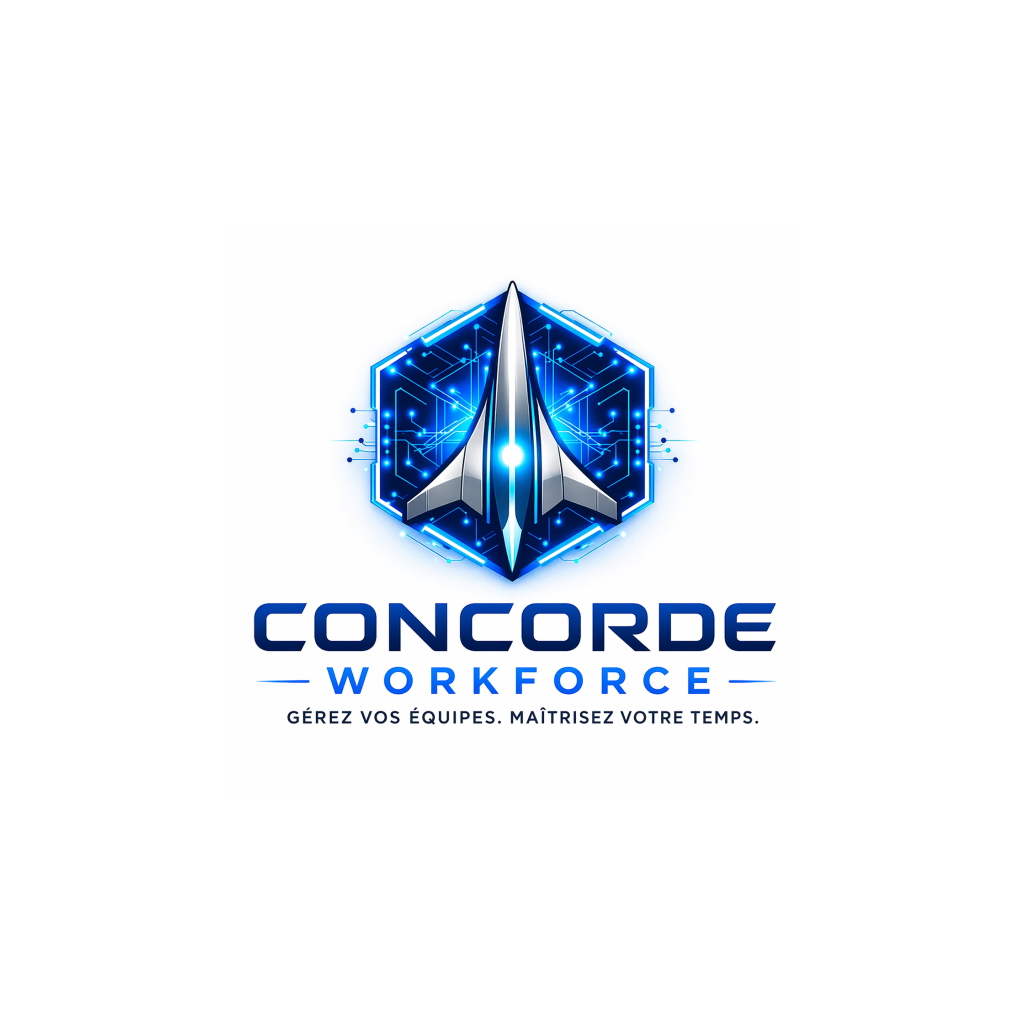
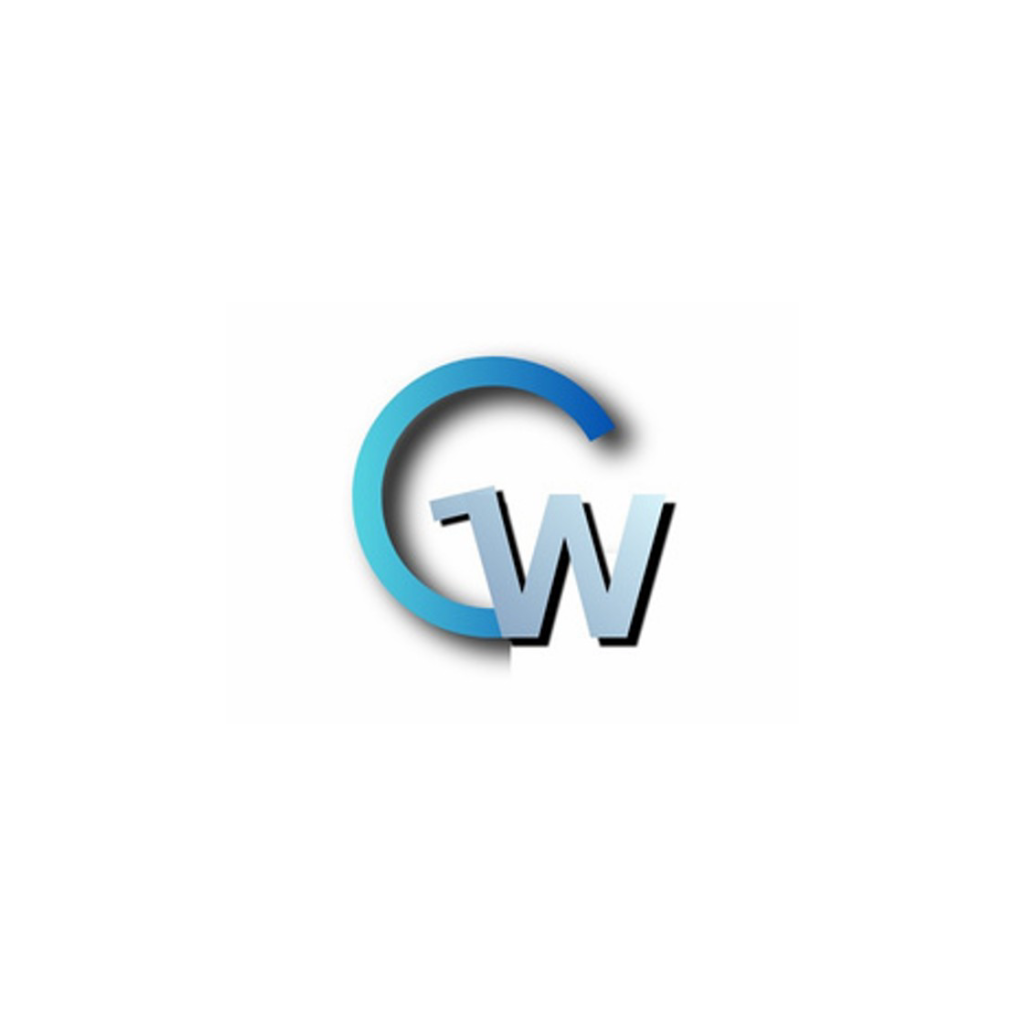
Refactor code structure for improved readability and maintainability

Changed region(s): [[0.25, 0.2812, 0.75, 0.7188]]

diff --git a/abrpoint.client/src/components/Home/HomePage.css b/abrpoint.client/src/components/Home/HomePage.css
@@ -486,6 +486,71 @@
 .home-page .step-store {
   background: var(--hp-surface-container-low); border: 1px solid var(--hp-surface-container-high);
   border-radius: 12px; padding: 11px 22px; font-size: 13px; font-weight: 600; color: var(--hp-on-surface);
+  text-decoration: none; transition: transform .15s ease, border-color .15s ease;
+}
+.home-page .step-store:hover { transform: translateY(-1px); border-color: var(--hp-primary-fixed-dim); }
+.home-page .step-store-url {
+  margin-top: 14px; font-size: 12.5px; color: var(--hp-on-surface-variant);
+}
+.home-page .step-store-url a { color: var(--hp-primary); text-decoration: none; }
+.home-page .step-store-url a:hover { text-decoration: underline; }
+
+/* ── DOWNLOAD BAND ── bandeau dédié pour le téléchargement mobile. */
+.home-page .download-band {
+  margin: 0 -48px;
+  padding: 56px 48px;
+  background: linear-gradient(135deg, #f3f7ff 0%, #ffffff 60%, #eef3fb 100%);
+  border-top: 1px solid var(--hp-surface-container);
+  border-bottom: 1px solid var(--hp-surface-container);
+}
+.home-page .download-band-inner {
+  max-width: 1200px; margin: 0 auto;
+  display: grid; grid-template-columns: 1fr 1.1fr; gap: 40px; align-items: center;
+}
+.home-page .download-band-left { display: flex; flex-direction: column; gap: 10px; }
+.home-page .download-band-tag {
+  display: inline-flex; align-self: flex-start; align-items: center; gap: 6px;
+  background: var(--hp-primary-fixed); color: var(--hp-primary);
+  font-size: 12.5px; font-weight: 700; letter-spacing: 0.04em;
+  padding: 6px 14px; border-radius: 999px; text-transform: uppercase;
+}
+.home-page .download-band-title {
+  font-family: var(--hp-font-headline);
+  font-size: clamp(24px, 3vw, 34px); font-weight: 800;
+  color: var(--hp-on-surface); letter-spacing: -0.02em; margin: 4px 0 0;
+}
+.home-page .download-band-sub {
+  font-size: 15px; color: var(--hp-on-surface-variant); margin: 0; line-height: 1.55;
+}
+.home-page .download-band-url {
+  color: var(--hp-primary); font-weight: 700; text-decoration: none;
+  border-bottom: 1.5px dashed rgba(0,64,161,0.35);
+}
+.home-page .download-band-url:hover { border-bottom-style: solid; }
+
+.home-page .download-band-buttons {
+  display: flex; flex-wrap: wrap; gap: 12px; justify-content: flex-end;
+}
+.home-page .store-btn {
+  display: inline-flex; align-items: center; gap: 12px;
+  background: #111418; color: #ffffff;
+  border-radius: 14px; padding: 12px 22px;
+  text-decoration: none;
+  transition: transform .18s ease, box-shadow .18s ease;
+  box-shadow: 0 6px 18px rgba(15,23,42,0.15);
+  min-width: 200px;
+}
+.home-page .store-btn:hover { transform: translateY(-2px); box-shadow: 0 10px 24px rgba(15,23,42,0.22); }
+.home-page .store-btn-icon { font-size: 22px; line-height: 1; }
+.home-page .store-btn-text { display: flex; flex-direction: column; line-height: 1.15; }
+.home-page .store-btn-small { font-size: 10.5px; letter-spacing: 0.08em; text-transform: uppercase; opacity: 0.75; }
+.home-page .store-btn-large { font-size: 16px; font-weight: 700; }
+.home-page .store-btn-apk { background: linear-gradient(135deg, var(--hp-primary), var(--hp-primary-container)); }
+
+@media (max-width: 860px) {
+  .home-page .download-band { margin: 0 -20px; padding: 40px 20px; }
+  .home-page .download-band-inner { grid-template-columns: 1fr; gap: 24px; }
+  .home-page .download-band-buttons { justify-content: flex-start; }
 }
 .home-page .mini-profile {
   background: var(--hp-surface-container-low); border: 1px solid var(--hp-surface-container-high);

diff --git a/abrpoint.client/src/components/Home/HomePage.tsx b/abrpoint.client/src/components/Home/HomePage.tsx
@@ -113,6 +113,7 @@ export default function HomePage() {
           <li><a href="#how">Comment ça marche</a></li>
           <li><a href="#secteurs">Secteurs</a></li>
           <li><a href="#pricing">Tarifs</a></li>
+          <li><a href="#download">Téléchargement</a></li>
           <li><a href="#temoignages">Témoignages</a></li>
         </ul>
         <div className="nav-right">
@@ -265,6 +266,47 @@ export default function HomePage() {
         </div>
       </div>
 
+      {/* MOBILE DOWNLOAD — bandeau dédié pour rendre le lien de téléchargement
+          mobile (URL canonique : concordeworkly.com) immédiatement repérable
+          en haut de page, sans avoir à scroller jusqu'à l'étape « Déployez sur
+          le terrain ». */}
+      <section id="download" className="download-band reveal">
+        <div className="download-band-inner">
+          <div className="download-band-left">
+            <div className="download-band-tag">📱 Application mobile</div>
+            <h3 className="download-band-title">Téléchargez l'app Concorde Workly</h3>
+            <p className="download-band-sub">
+              iOS · Android · Mode offline · Géolocalisation optionnelle. Rendez-vous sur{' '}
+              <a className="download-band-url" href="https://concordeworkly.com" target="_blank" rel="noreferrer">concordeworkly.com</a>
+              {' '}pour récupérer la dernière version.
+            </p>
+          </div>
+          <div className="download-band-buttons">
+            <a className="store-btn" href="https://concordeworkly.com/ios" target="_blank" rel="noreferrer">
+              <span className="store-btn-icon"></span>
+              <span className="store-btn-text">
+                <span className="store-btn-small">Télécharger sur</span>
+                <span className="store-btn-large">App Store</span>
+              </span>
+            </a>
+            <a className="store-btn" href="https://concordeworkly.com/android" target="_blank" rel="noreferrer">
+              <span className="store-btn-icon">▶</span>
+              <span className="store-btn-text">
+                <span className="store-btn-small">DISPONIBLE SUR</span>
+                <span className="store-btn-large">Google Play</span>
+              </span>
+            </a>
+            <a className="store-btn store-btn-apk" href="https://concordeworkly.com" target="_blank" rel="noreferrer">
+              <span className="store-btn-icon">⬇</span>
+              <span className="store-btn-text">
+                <span className="store-btn-small">APK direct</span>
+                <span className="store-btn-large">concordeworkly.com</span>
+              </span>
+            </a>
+          </div>
+        </div>
+      </section>
+
       {/* FEATURES */}
       <section id="features">
         <div className="section-tag">Fonctionnalités</div>
@@ -395,8 +437,11 @@ export default function HomePage() {
                 <div className="step-illus-title">Mobile-first</div>
                 <div className="step-illus-desc">iOS · Android · Mode offline · Géolocalisation optionnelle · Pointeuses biométriques compatibles</div>
                 <div className="step-stores">
-                  <div className="step-store">↓ App Store</div>
-                  <div className="step-store">↓ Google Play</div>
+                  <a className="step-store" href="https://concordeworkly.com/ios" target="_blank" rel="noreferrer">↓ App Store</a>
+                  <a className="step-store" href="https://concordeworkly.com/android" target="_blank" rel="noreferrer">↓ Google Play</a>
+                </div>
+                <div className="step-store-url">
+                  ou téléchargez l'APK depuis <a href="https://concordeworkly.com" target="_blank" rel="noreferrer"><strong>concordeworkly.com</strong></a>
                 </div>
               </div>
             )}
@@ -733,6 +778,8 @@ export default function HomePage() {
               <a href="#features">Fonctionnalités</a>
               <a href="#pricing">Tarifs</a>
               <a href="#how">Démo</a>
+              <a href="#download">Application mobile</a>
+              <a href="https://concordeworkly.com" target="_blank" rel="noreferrer">concordeworkly.com</a>
               <a href="#temoignages">Cas clients</a>
             </div>
           </div>

diff --git a/abrpoint.mobile/scripts/generate-padded-icon.js b/abrpoint.mobile/scripts/generate-padded-icon.js
@@ -1,35 +1,50 @@
 /**
- * Génère une version paddée de Concorde.png pour l'icône Android adaptive.
+ * Génère les variantes de l'icône Android adaptive à partir de la nouvelle
+ * identité visuelle Concorde Workly (assets/concorde-workly-logo.jpg).
  *
- * Pourquoi: Android applique un zoom de ~150% sur le foreground (zone safe ~66%).
+ * Pourquoi : Android applique un zoom de ~150% sur le foreground (zone safe ~66%).
  * Un logo plein cadre apparaît alors énorme et est rogné. On ajoute ~20% de marge
- * transparente autour du logo pour qu'il s'affiche à une taille normale.
+ * transparente autour du logo pour qu'il s'affiche à une taille normale, nette
+ * et lisible en tant qu'icône.
+ *
+ * Sorties :
+ *   - assets/concorde-workly-logo.png  — version PNG nette du logo source (1024×1024)
+ *   - assets/icon-padded.png           — icône iOS/Android (paddée)
+ *   - assets/adaptive-foreground.png   — foreground adaptive Android (paddé)
  */
 const Jimp = require('jimp-compact');
 const path = require('path');
 
-const SRC = path.join(__dirname, '..', 'assets', 'Concorde.png');
+const SRC = path.join(__dirname, '..', 'assets', 'concorde-workly-logo.jpg');
+const OUT_LOGO_PNG = path.join(__dirname, '..', 'assets', 'concorde-workly-logo.png');
 const OUT_ICON = path.join(__dirname, '..', 'assets', 'icon-padded.png');
 const OUT_ADAPTIVE = path.join(__dirname, '..', 'assets', 'adaptive-foreground.png');
 
-// Marge en pourcentage de la taille de la canvas (chaque côté).
-// 22% de marge = logo occupe 56% au centre, ce qui est conforme à la safe zone Android.
+// 22% de marge = logo occupe 56% au centre, conforme à la safe zone Android.
 const PADDING_RATIO = 0.22;
 const CANVAS_SIZE = 1024;
 
 (async () => {
   const src = await Jimp.read(SRC);
 
-  const innerSize = Math.round(CANVAS_SIZE * (1 - PADDING_RATIO * 2));
-  src.contain(innerSize, innerSize);
+  // 1) Version PNG carrée et nette du logo source (utilisée par splash, lock,
+  //    BackgroundShield et notifications — partout où on veut le logo plein cadre).
+  const square = src.clone();
+  // contain garde le ratio, ajoute des bords transparents pour atteindre 1024×1024.
+  square.contain(CANVAS_SIZE, CANVAS_SIZE);
+  await square.writeAsync(OUT_LOGO_PNG);
 
+  // 2) Versions paddées pour l'icône applicative.
+  const innerSize = Math.round(CANVAS_SIZE * (1 - PADDING_RATIO * 2));
+  const inner = src.clone().contain(innerSize, innerSize);
   const canvas = new Jimp(CANVAS_SIZE, CANVAS_SIZE, 0x00000000);
   const offset = Math.round((CANVAS_SIZE - innerSize) / 2);
-  canvas.composite(src, offset, offset);
+  canvas.composite(inner, offset, offset);
 
   await canvas.writeAsync(OUT_ICON);
   await canvas.writeAsync(OUT_ADAPTIVE);
 
+  console.log('Generated:', OUT_LOGO_PNG);
   console.log('Generated:', OUT_ICON);
   console.log('Generated:', OUT_ADAPTIVE);
 })().catch((err) => {

diff --git a/abrpoint.mobile/src/screens/LeaveRequestScreen.tsx b/abrpoint.mobile/src/screens/LeaveRequestScreen.tsx
@@ -248,7 +248,23 @@ export default function LeaveRequestScreen({ navigation }: any) {
       }
       closeForm();
       loadRequests();
-    } catch (error) {
+    } catch (error: any) {
+      // Faux négatif vu en prod : le POST réussit (record persisté), mais une
+      // erreur dans la notif manager (DbContext concurrent côté serveur, ou un
+      // hook réseau côté client) faisait remonter ce catch. On revérifie via
+      // loadRequests() — si le record est apparu, c'est un succès. Plus de
+      // « Impossible d'ajouter… » alors que la demande est bien là.
+      const status = error?.response?.status;
+      const wasNetworkOrServerHiccup = !status || status >= 500;
+      try { await loadRequests(); } catch { /* best-effort */ }
+      if (wasNetworkOrServerHiccup) {
+        Alert.alert('⚠️ Action partielle',
+          editingConcod
+            ? 'La demande a peut-être été enregistrée. Vérifiez la liste — si elle apparaît, tout est bon.'
+            : 'La demande a peut-être été enregistrée. Vérifiez la liste — si elle apparaît, tout est bon.');
+        closeForm();
+        return;
+      }
       Alert.alert('Erreur', editingConcod ? 'Impossible de modifier la demande' : 'Impossible d\'envoyer la demande');
     }
   };

diff --git a/abrpoint.mobile/src/screens/DemandeAutorisationScreen.tsx b/abrpoint.mobile/src/screens/DemandeAutorisationScreen.tsx
@@ -229,7 +229,19 @@ export default function DemandeAutorisationScreen({ navigation }: any) {
       setShowForm(false);
       setEditDemande(null);
       loadDemandes();
-    } catch (e) {
+    } catch (e: any) {
+      // Même filet de sécurité que LeaveRequestScreen : on a vu des 500 remontés
+      // alors que le record était bien créé (notif manager qui échoue côté serveur).
+      const status = e?.response?.status;
+      const wasNetworkOrServerHiccup = !status || status >= 500;
+      try { await loadDemandes(); } catch { /* best-effort */ }
+      if (wasNetworkOrServerHiccup) {
+        Alert.alert('⚠️ Action partielle',
+          'La demande a peut-être été enregistrée. Vérifiez la liste — si elle apparaît, tout est bon.');
+        setShowForm(false);
+        setEditDemande(null);
+        return;
+      }
       Alert.alert('Erreur', "Impossible d'envoyer la demande");
     }
   };

diff --git a/abrpoint.mobile/src/components/BackgroundShield.tsx b/abrpoint.mobile/src/components/BackgroundShield.tsx
@@ -34,7 +34,7 @@ export default function BackgroundShield({ children }: { children: React.ReactNo
       {hidden && (
         <View style={styles.shield} pointerEvents="none">
           <Image
-            source={require('../../assets/Concorde.png')}
+            source={require('../../assets/concorde-workly-logo.png')}
             style={styles.logo}
             resizeMode="contain"
           />

diff --git a/abrpoint.mobile/src/components/LockScreen.tsx b/abrpoint.mobile/src/components/LockScreen.tsx
@@ -96,7 +96,7 @@ export default function LockScreen() {
         colors={[COLORS.primary, COLORS.primaryContainer ?? '#0056d2']}
         style={StyleSheet.absoluteFillObject}
       />
-      <Image source={require('../../assets/Concorde.png')} style={styles.logo} resizeMode="contain" />
+      <Image source={require('../../assets/concorde-workly-logo.png')} style={styles.logo} resizeMode="contain" />
       <Text style={styles.title}>Session verrouillée</Text>
       <Text style={styles.subtitle}>
         {user?.utilib ? `${user.utilib} — ` : ''}Inactivité détectée

diff --git a/ABRPOINT.Server/Controllers/DemandeAutorisationsController.cs b/ABRPOINT.Server/Controllers/DemandeAutorisationsController.cs
@@ -156,6 +156,7 @@ namespace ABRPOINT.Server.Controllers
         {
             if (demande == null)
                 return BadRequest("Veuillez saisir les champs obligatoires");
+            object? result;
             try
             {
                 var caller = User.FindFirst(ClaimTypes.NameIdentifier)?.Value;
@@ -169,11 +170,20 @@ namespace ABRPOINT.Server.Controllers
                     return Forbid();
                 }
 
-                var result = await _repository.AddAsync(demande);
+                result = await _repository.AddAsync(demande);
+            }
+            catch (Exception)
+            {
+                return StatusCode(500);
+            }
+
+            // Best-effort : un échec de notification (DbContext concurrent, employé
+            // introuvable, push provider down…) NE DOIT PAS faire retomber le client
+            // sur "Impossible d'envoyer la demande" alors qu'elle est bien créée.
+            try
+            {
                 if (_notify != null)
                 {
-                    // Récupère le nom de l'employé pour rendre la notif intelligible au manager
-                    // sans qu'il ait à ouvrir l'écran ("X attend votre validation" >>> "Une demande a été soumise").
                     var who = await _context.Employes.AsNoTracking()
                         .Where(e => e.Soccod == demande.Soccod && e.Empcod == demande.Empcod)
                         .Select(e => e.Emplib)
@@ -184,12 +194,13 @@ namespace ABRPOINT.Server.Controllers
                         $"{who} attend votre validation.",
                         new { type = "auth_request_created", id = (result as DemandeAutorisation)?.Id, soccod = demande.Soccod });
                 }
-                return Ok(new { success = true, message = "Demande d'autorisation créée avec succès", data = result });
             }
-            catch (Exception)
+            catch (Exception notifyEx)
             {
-                return StatusCode(500);
+                Console.WriteLine($"[DemandeAutorisations.Create] Notification side-effect failed (ignored, record was saved): {notifyEx.Message}");
             }
+
+            return Ok(new { success = true, message = "Demande d'autorisation créée avec succès", data = result });
         }
 
         // PUT: api/DemandeAutorisations

diff --git a/ABRPOINT.Server/Controllers/DemCongesController.cs b/ABRPOINT.Server/Controllers/DemCongesController.cs
@@ -229,7 +229,17 @@ namespace ABRPOINT.Server.Controllers
             try
             {
                 await _demandecongeRepository.AddAsync(conge);
-                // Notifier les managers qu'une nouvelle demande arrive (best-effort).
+            }
+            catch (Exception)
+            {
+                return StatusCode(500);
+            }
+
+            // Best-effort : un échec de notification (DbContext concurrent, employé
+            // introuvable, push provider down…) NE DOIT PAS faire retomber le client
+            // sur "Impossible d'ajouter" alors que la demande est bien persistée.
+            try
+            {
                 if (_notify != null)
                 {
                     var who = await _context.Employes.AsNoTracking()
@@ -237,19 +247,18 @@ namespace ABRPOINT.Server.Controllers
                         .Select(e => e.Emplib)
                         .FirstOrDefaultAsync()
                         ?? conge.Empcod ?? "Un employé";
-                    // Formulation orientée action : le manager doit comprendre en 1 seconde
-                    // qu'il a un acte à poser, pas qu'il a "reçu un message".
                     _ = _notify.NotifyManagersAsync(
                         "🗓️ Demande de congé à valider",
                         $"{who} attend votre validation.",
                         new { type = "leave_request_created", concod = conge.Concod, soccod = conge.Soccod });
                 }
-                return Ok("Demande ajouté avec succées");
             }
-            catch (Exception)
+            catch (Exception notifyEx)
             {
-                return StatusCode(500);
+                Console.WriteLine($"[DemConges.Post] Notification side-effect failed (ignored, record was saved): {notifyEx.Message}");
             }
+
+            return Ok("Demande ajouté avec succées");
         }
 
         // PUT api/<DirectionsController>/5